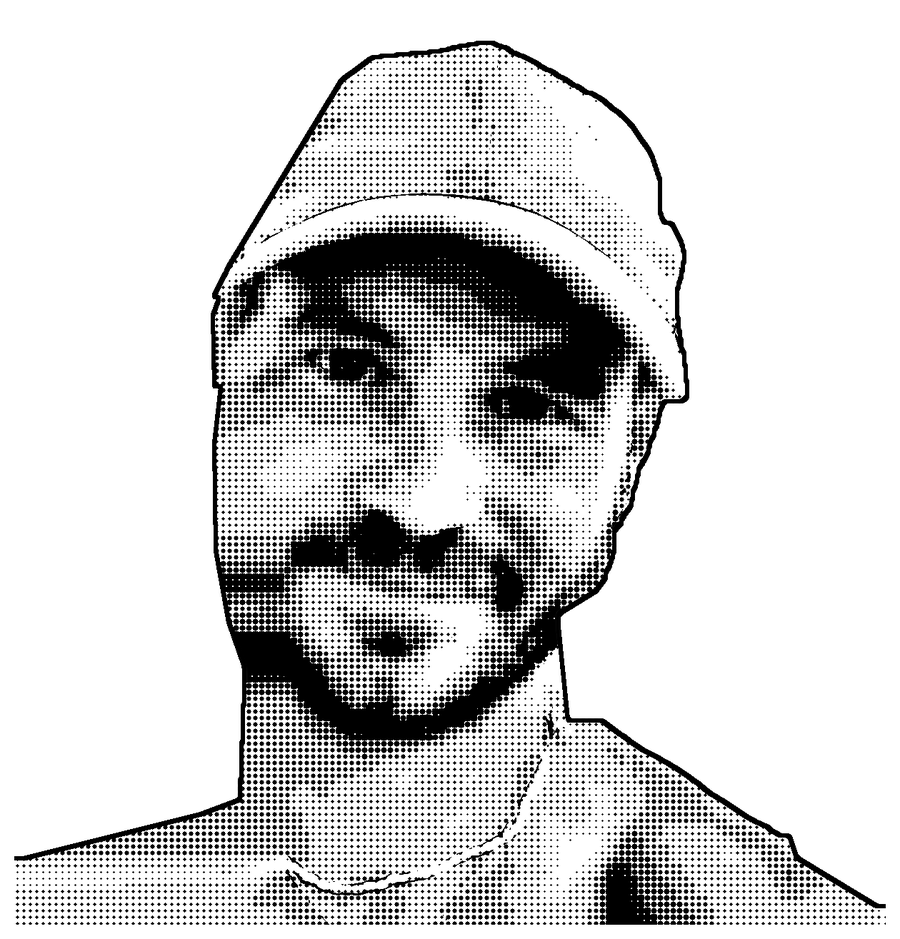
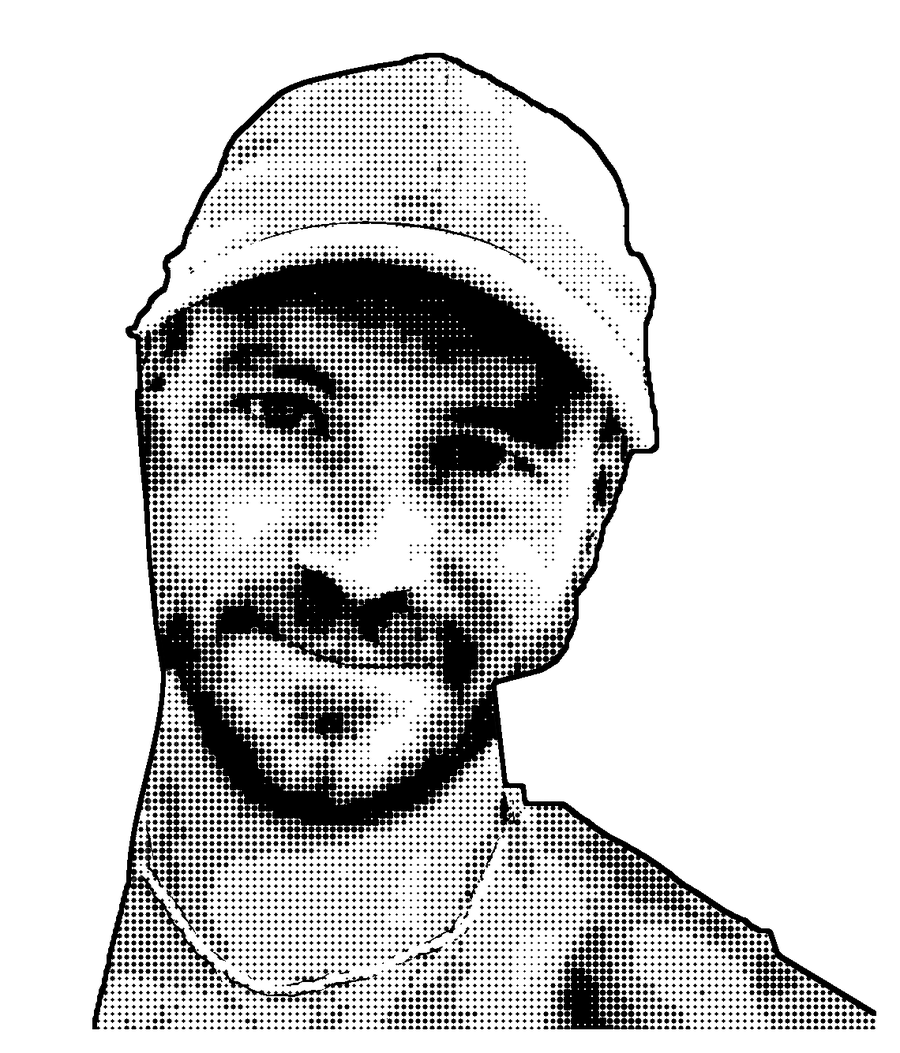
Portrait: Gesicht vollständig freigestellt statt Ergänzung
Claude-Session: https://claude.ai/code/session_012GkYrxdFS1nW15CpWQprNq

Changed region(s): [[0.0, 0.0309, 0.9956, 0.9883]]

diff --git a/index.html b/index.html
@@ -90,7 +90,7 @@
     <div class="container">
       <div class="me__photo">
         <div class="sock__peg"></div>
-        <img class="me__portrait" src="/assets/img/fabian.png" alt="Fabian als Comic-Zeichnung mit Kappe und Bart" width="900" height="939">
+        <img class="me__portrait" src="/assets/img/fabian.png" alt="Fabian als Comic-Zeichnung mit Kappe und Bart" width="900" height="1053">
       </div>
       <div class="me__text">
         <span class="eyebrow">Über mich</span>
